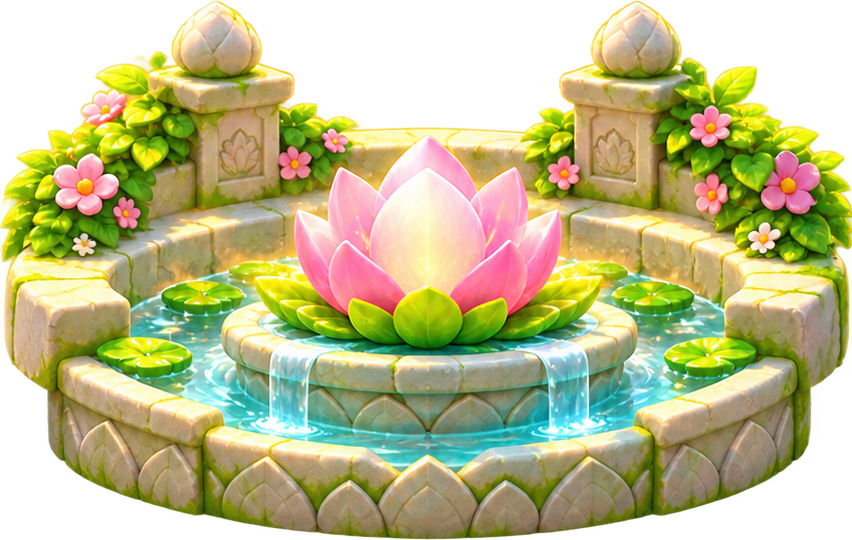
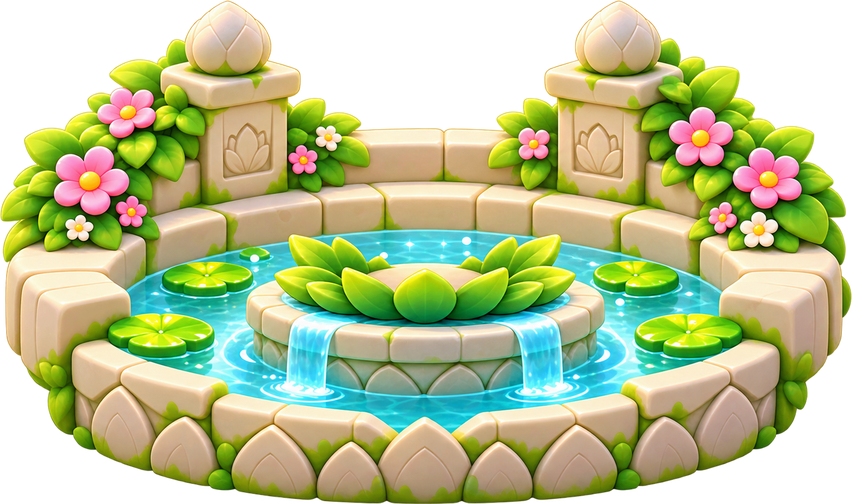
Home's fountain: the owner's restyled back, front stones and shadow
Every Home layer is now the owner's restyled picture.

- The fountain's back (a wider pool, leaves in the middle for the lotus)
  and the new front stones are trimmed and fitted to the picture's
  852 px width: the back's foot where the old one's was, the front's top
  at 990 so its side flowers hide the heroes' feet.
- The shadow came opaque with a colored fringe: it becomes how much it
  darkens the paving, as the alpha of the old shadow's color with the old
  peak opacity, so it stays as soft.
- HomeLayersData.cs takes the new boxes; layers.json lists the hashes.
- Sprig stands a little further left and lower (0.215, 0.585), its feet
  behind the front stones instead of in the wider pool.

Claude-Session: https://claude.ai/code/session_0178a9oLtajvYrcBDLYq6szG

diff --git a/client/Assets/Bloomlings/UI/Design/HomeLayersData.cs b/client/Assets/Bloomlings/UI/Design/HomeLayersData.cs
@@ -1,6 +1,6 @@
 // <auto-generated>
-// Written by tools/heroanim/layers.mjs from the owner's Home layers; do not edit. `node tools/heroanim/check.mjs` proves
-// it still matches the pictures.
+// Written by tools/heroanim/layers.mjs from the owner's Home layers; since 2026-10-08 the boxes of the owner's restyled
+// cut-outs, placed by hand (tools/heroanim/SOURCE.md). `node tools/heroanim/check.mjs` proves it still matches the pictures.
 // </auto-generated>
 namespace Bloomlings.Client.UI.Design
 {
@@ -12,19 +12,19 @@ namespace Bloomlings.Client.UI.Design
         /// <summary>The layered picture's height in pixels.</summary>
         public const int PictureHeight = 1846;
 
-        /// <summary><c>home.jpg</c> (from <c>01_home_bg_back.png</c>): its box in the picture.</summary>
+        /// <summary><c>home.jpg</c> (the owner's new garden, 2026-10-08): its box in the picture.</summary>
         public static readonly PictureBox Back = new PictureBox("home", 0, 0, 852, 1846);
 
-        /// <summary><c>home-fountain-back.png</c> (from <c>02_home_fountain_back.png</c>): its box in the picture.</summary>
-        public static readonly PictureBox FountainBack = new PictureBox("home-fountain-back", 0, 700, 852, 540);
+        /// <summary><c>home-fountain-back.png</c> (the owner's restyled fountain back, 2026-10-08): its box in the picture.</summary>
+        public static readonly PictureBox FountainBack = new PictureBox("home-fountain-back", 0, 736, 852, 504);
 
-        /// <summary><c>home-fountain-front.png</c> (from <c>03_home_fountain_front.png</c>): its box in the picture.</summary>
-        public static readonly PictureBox FountainFront = new PictureBox("home-fountain-front", 0, 987, 852, 342);
+        /// <summary><c>home-fountain-front.png</c> (the owner's restyled front stones, 2026-10-08): its box in the picture.</summary>
+        public static readonly PictureBox FountainFront = new PictureBox("home-fountain-front", 0, 990, 852, 261);
 
-        /// <summary><c>home-lotus.png</c> (from <c>02_home_fountain_back.png (the lotus)</c>): its box in the picture.</summary>
+        /// <summary><c>home-lotus.png</c> (the owner's restyled lotus, 2026-10-08): its box in the picture.</summary>
         public static readonly PictureBox Lotus = new PictureBox("home-lotus", 294, 835, 269, 159);
 
-        /// <summary><c>home-shadow.png</c> (from <c>04_home_soft_shadow.png (the front left shadow)</c>): its box in the picture.</summary>
-        public static readonly PictureBox Shadow = new PictureBox("home-shadow", 0, 918, 410, 175);
+        /// <summary><c>home-shadow.png</c> (the owner's restyled shadow, 2026-10-08): its box in the picture.</summary>
+        public static readonly PictureBox Shadow = new PictureBox("home-shadow", 0, 918, 410, 72);
     }
 }

diff --git a/client/Assets/Bloomlings/UI/Design/HomeLayers.cs b/client/Assets/Bloomlings/UI/Design/HomeLayers.cs
@@ -111,13 +111,15 @@ namespace Bloomlings.Client.UI.Design
         /// wider than the Meshy one did, so it stands a little smaller and further in, inside a 21:9 screen. The owner's
         /// Heroes.glb (2026-10-04) gives Bloom a wide crown of petals: Bloom stands a little smaller and Drop further right
         /// and a little taller, so Drop's face shows beside the petals. Since the owner's tuning of 2026-10-05 Twig stands a
-        /// little further right, so more of Drop shows beside it.
+        /// little further right, so more of Drop shows beside it. On the owner's restyled fountain of 2026-10-08 (a wider
+        /// pool) Sprig stands a little further left and lower, its feet behind the front stones' left flowers, not in the
+        /// water.
         /// </summary>
         public static (float X, float Feet, float Height) Placement(Family family) => family switch
         {
             Family.Bloom => (0.5f, 0.49f, 0.40f),
             Family.Drop => (0.735f, 0.532f, 0.36f),
-            Family.Sprig => (0.235f, 0.56f, 0.40f),
+            Family.Sprig => (0.215f, 0.585f, 0.40f),
             _ => (0.85f, 0.568f, 0.31f),
         };
 

diff --git a/tools/heroanim/SOURCE.md b/tools/heroanim/SOURCE.md
@@ -74,7 +74,7 @@ dances, `victory`) are not used.
 | `02_home_fountain_back.png` | `home-lotus.png`: the lotus cut out of it (its pink petals and what they enclose, the edge softened), drawn again over Bloom, who stands behind it |
 | `03_home_fountain_front.png` | `home-fountain-front.png`: cropped the same way |
 
-Since 2026-10-08 `home-fountain-front.png` and `home-lotus.png` are the owner's restyled versions (`bloomlings_01_backgrounds_restyled.zip`, `home_layers/home-fountain-back.png` and `home_layers/home-lotus.png`, their canvases matching the layers' boxes): scaled into the same boxes, alpha up to 5 / 255 cleared, scaled by the scene's saturation factor of `layers.json`, which lists their new hashes; record `tools/artgen/models/owner-pictures.md`. The garden, the fountain's back and the shadow stay those of `bloomlings_home_assets.zip` until their restyled versions come. Since the owner's choice of 2026-10-08 (FR-031 as changed) no layer is muted: the front stones and the lotus keep their delivered colors, and the fountain's back and the shadow had the scene's ×0.738 undone (each channel moved away from the pixel's `(max + min) / 2` by 1 / 0.738, lightness and hue kept); `layers.json` lists the new hashes.
+Since 2026-10-08 `home-fountain-front.png` and `home-lotus.png` are the owner's restyled versions (`bloomlings_01_backgrounds_restyled.zip`, `home_layers/home-fountain-back.png` and `home_layers/home-lotus.png`, their canvases matching the layers' boxes): scaled into the same boxes, alpha up to 5 / 255 cleared, scaled by the scene's saturation factor of `layers.json`, which lists their new hashes; record `tools/artgen/models/owner-pictures.md`. The garden, the fountain's back and the shadow stay those of `bloomlings_home_assets.zip` until their restyled versions come. Since the owner's choice of 2026-10-08 (FR-031 as changed) no layer is muted: the front stones and the lotus keep their delivered colors, and the fountain's back and the shadow had the scene's ×0.738 undone (each channel moved away from the pixel's `(max + min) / 2` by 1 / 0.738, lightness and hue kept); `layers.json` lists the new hashes. Later the same day the owner restyled the rest (made with ChatGPT image generation, sent in the chat), so every Home layer is the owner's restyled picture: the fountain's back (1672 × 941, a wider pool with its middle's leaves for the lotus) trimmed to its alpha (above 8 / 255), fitted 852 px wide with its foot where the old back's was (box 0, 736, 852 × 504); new front stones (2172 × 724), fitted 852 px wide with their top at 990, so the side flowers hide Twig's and Sprig's feet (box 0, 990, 852 × 261); the shadow (2172 × 724, opaque with a colored fringe) turned into how much it darkens the paving, as the alpha of the old shadow's color (48, 35, 26) with the old peak, 94 / 255, so it stays as soft, 410 × 72. These boxes are set by hand in `HomeLayersData.cs` (`layers.mjs` takes full-canvas layers; run on the old archive it would bring the old layers back), and Sprig stands at 0.215, 0.585 (`HomeLayers.Placement`), its feet behind the front stones instead of in the wider pool.
 | `04_home_soft_shadow.png` | `home-shadow.png`: its front left shadow (of four), cut out with faded edges, drawn under every hero |
 | `05_home_petals_overlay.png` | not used since 2026-10-06: the owner removed Home's falling petals (it was `home-petals.png`) |
 

diff --git a/specs/005-reference-look/pictures.md b/specs/005-reference-look/pictures.md
@@ -268,8 +268,9 @@ garden, B2–B5, B7, B8) and the bottom menu's icons D9–D13. What is still ope
 On 2026-10-08 the owner restyled what the session had sent them (record `tools/artgen/models/owner-pictures.md`):
 B2–B5, B7 and B8, Home's front stones and lotus (B1's `home-fountain-front.png`, `home-lotus.png`), the eight detailed
 variant icons, the eight field icons, the leaves D5–D7, the booster icons D1–D4 and the currency lotus, each in its
-file's place. Still in the earlier style: the fountain's back (`home-fountain-back.png`) and the shadow. Home's garden (`home.jpg`)
-is the owner's new picture of the same day, already blurred (no blur pass since). The archive's two extra decorations (`extra-floral-vine.png`, `extra-flower-cluster.png`) have no
+file's place. Home's garden (`home.jpg`) is the owner's new picture of the same day, already blurred (no blur pass since), and later
+that day the fountain's back, new front stones and the shadow came restyled too, so every picture of the game but the
+heroes is in the new style (`tools/heroanim/SOURCE.md`). The archive's two extra decorations (`extra-floral-vine.png`, `extra-flower-cluster.png`) have no
 slot yet and are not in the game.
 
 ## H. Still awaited from the owner, and open questions (2026-10-03)

diff --git a/specs/005-reference-look/spec.md b/specs/005-reference-look/spec.md
@@ -677,6 +677,9 @@ by side in the game's screens.
   (`saturation.mjs` `ladder.background` null), the restyled backgrounds and Home's layers keep their colors, and the two
   Home layers not restyled yet (the fountain's back and the shadow) had the ×0.738 of 2026-10-04 undone.
 - Q: Home's garden? → A: The owner's new picture, already blurred: no blur pass (`layers.mjs` `gardenBlur` 0, FR-036).
+- Q: Home's fountain? → A: The owner restyled its back (a wider pool), its front stones and the shadow. Each is fitted
+  to the layered picture's width (`HomeLayersData.cs`), the shadow kept as soft as before, and Sprig stands a little
+  further left and lower (0.215, 0.585) so its feet are behind the front stones, not in the pool.
 
 ### Session 2026-10-03 (Sprig's Blender model; Twig and Sprig take turns celebrating)
 
